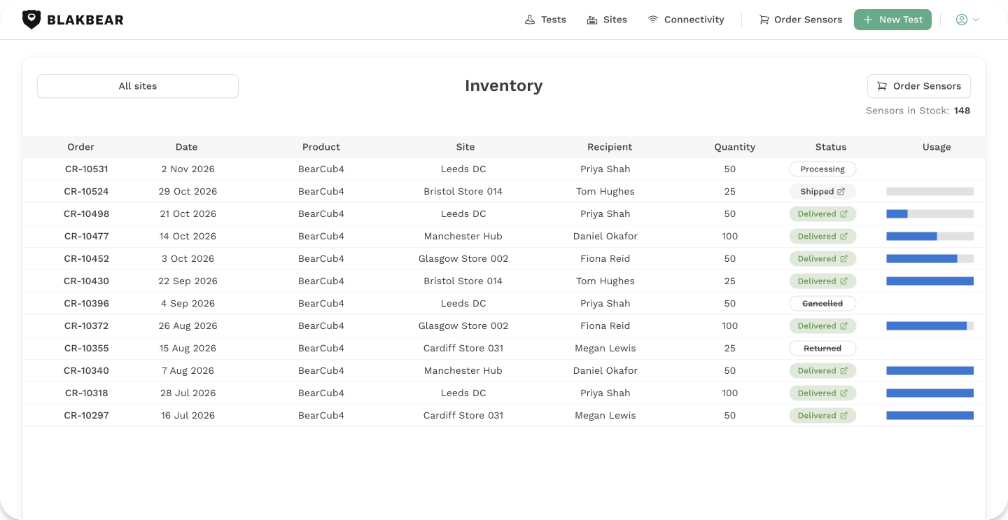
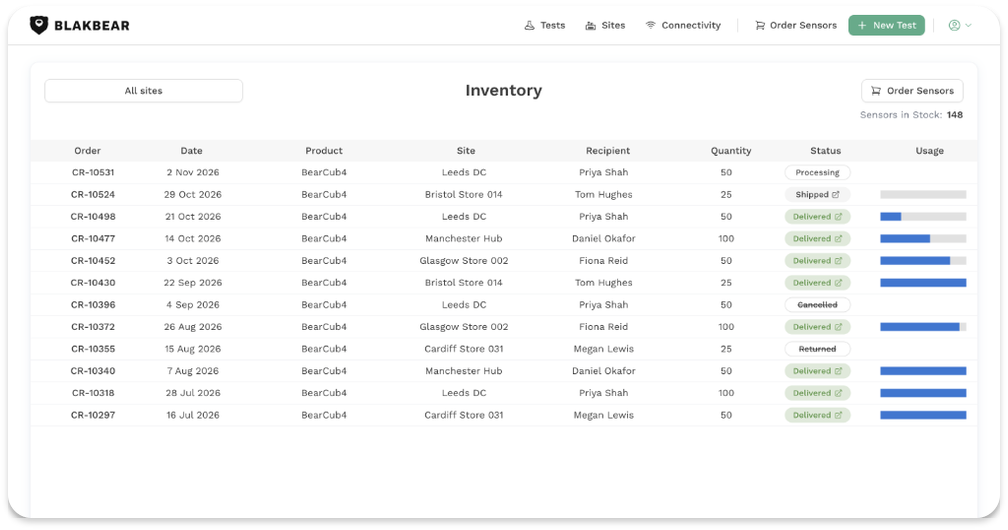
Bake drop shadow into Nov 2026 feature screenshots

diff --git a/scripts/add_shadow.py b/scripts/add_shadow.py
@@ -1,0 +1,43 @@
+"""Bake a drop shadow into 2x PNG exports, since most email clients ignore CSS box-shadow.
+
+Matches `box-shadow: 0 2px 3px rgba(0,0,0,0.2)` at 1x. Output keeps the input width,
+so the card shrinks slightly to leave room for the shadow.
+
+Usage: python3 scripts/add_shadow.py <input.png> <output.png>
+"""
+
+import sys
+
+from PIL import Image, ImageFilter
+
+SCALE = 2
+OFFSET_Y = 2 * SCALE
+BLUR_SIGMA = 1.5 * SCALE
+OPACITY = 0.2
+PAD_X, PAD_TOP, PAD_BOTTOM = 4 * SCALE, 3 * SCALE, 6 * SCALE
+
+
+def add_shadow(src: str, dst: str) -> None:
+    card = Image.open(src).convert("RGBA")
+    width = card.width
+    card_w = width - 2 * PAD_X
+    card_h = round(card.height * card_w / card.width)
+    card = card.resize((card_w, card_h), Image.LANCZOS)
+
+    canvas = Image.new("RGBA", (width, PAD_TOP + card_h + PAD_BOTTOM), (0, 0, 0, 0))
+
+    alpha = card.getchannel("A").point(lambda a: round(a * OPACITY))
+    shadow = Image.new("RGBA", card.size, (0, 0, 0, 255))
+    shadow.putalpha(alpha)
+    shadow_layer = Image.new("RGBA", canvas.size, (0, 0, 0, 0))
+    shadow_layer.paste(shadow, (PAD_X, PAD_TOP + OFFSET_Y))
+    shadow_layer = shadow_layer.filter(ImageFilter.GaussianBlur(BLUR_SIGMA))
+
+    canvas.alpha_composite(shadow_layer)
+    canvas.alpha_composite(card, (PAD_X, PAD_TOP))
+    canvas.save(dst, optimize=True)
+    print(f"{dst}: {canvas.width}x{canvas.height}")
+
+
+if __name__ == "__main__":
+    add_shadow(sys.argv[1], sys.argv[2])
